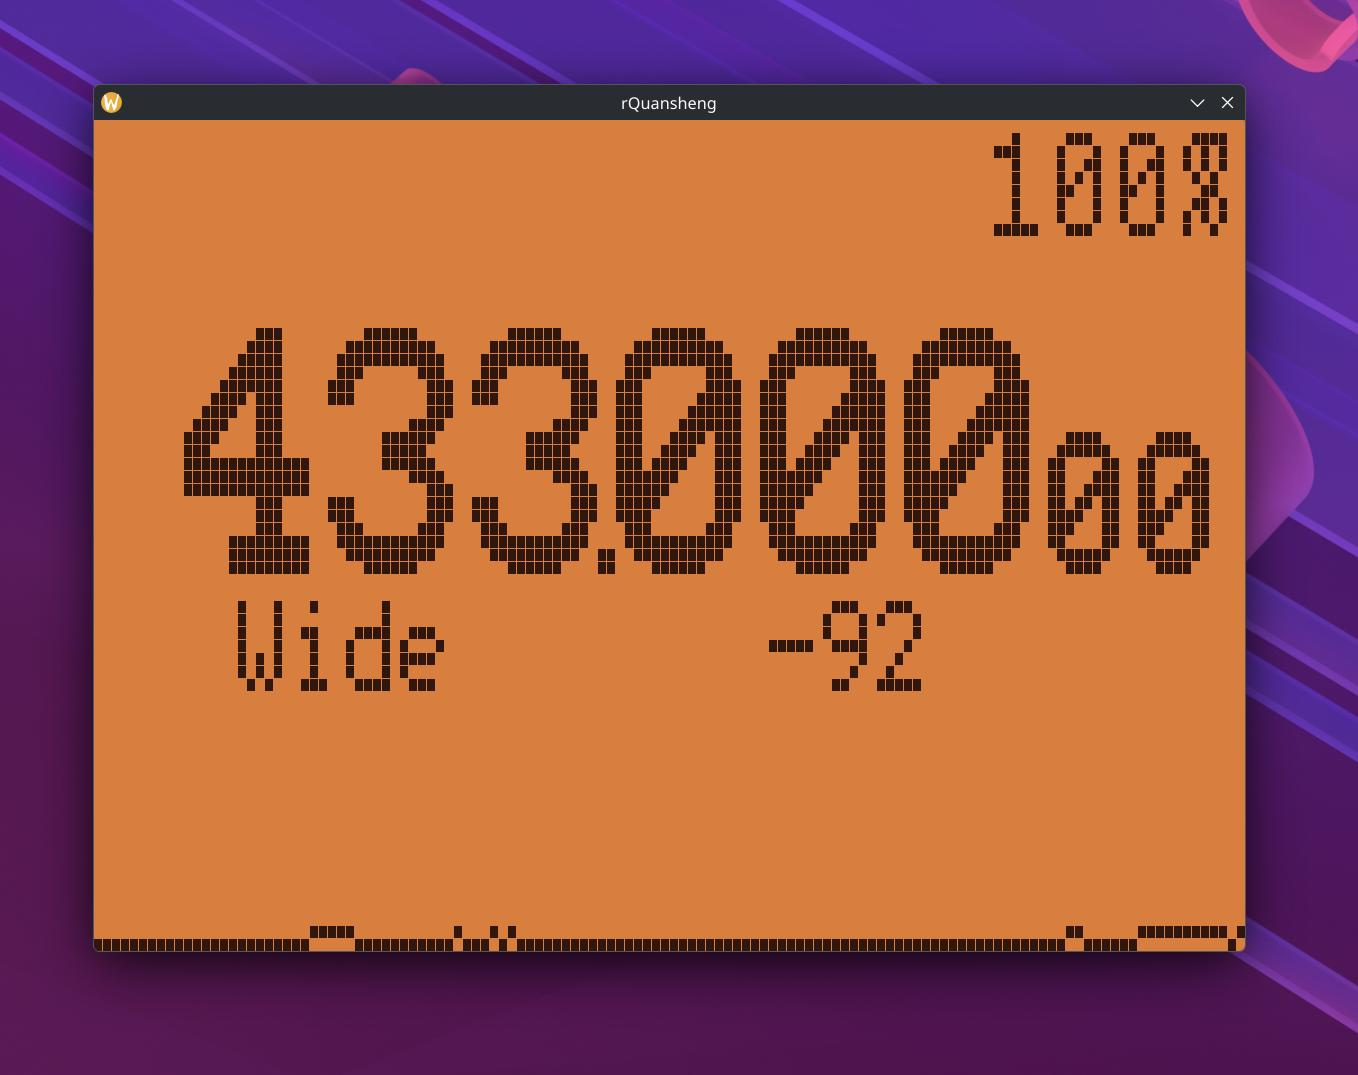
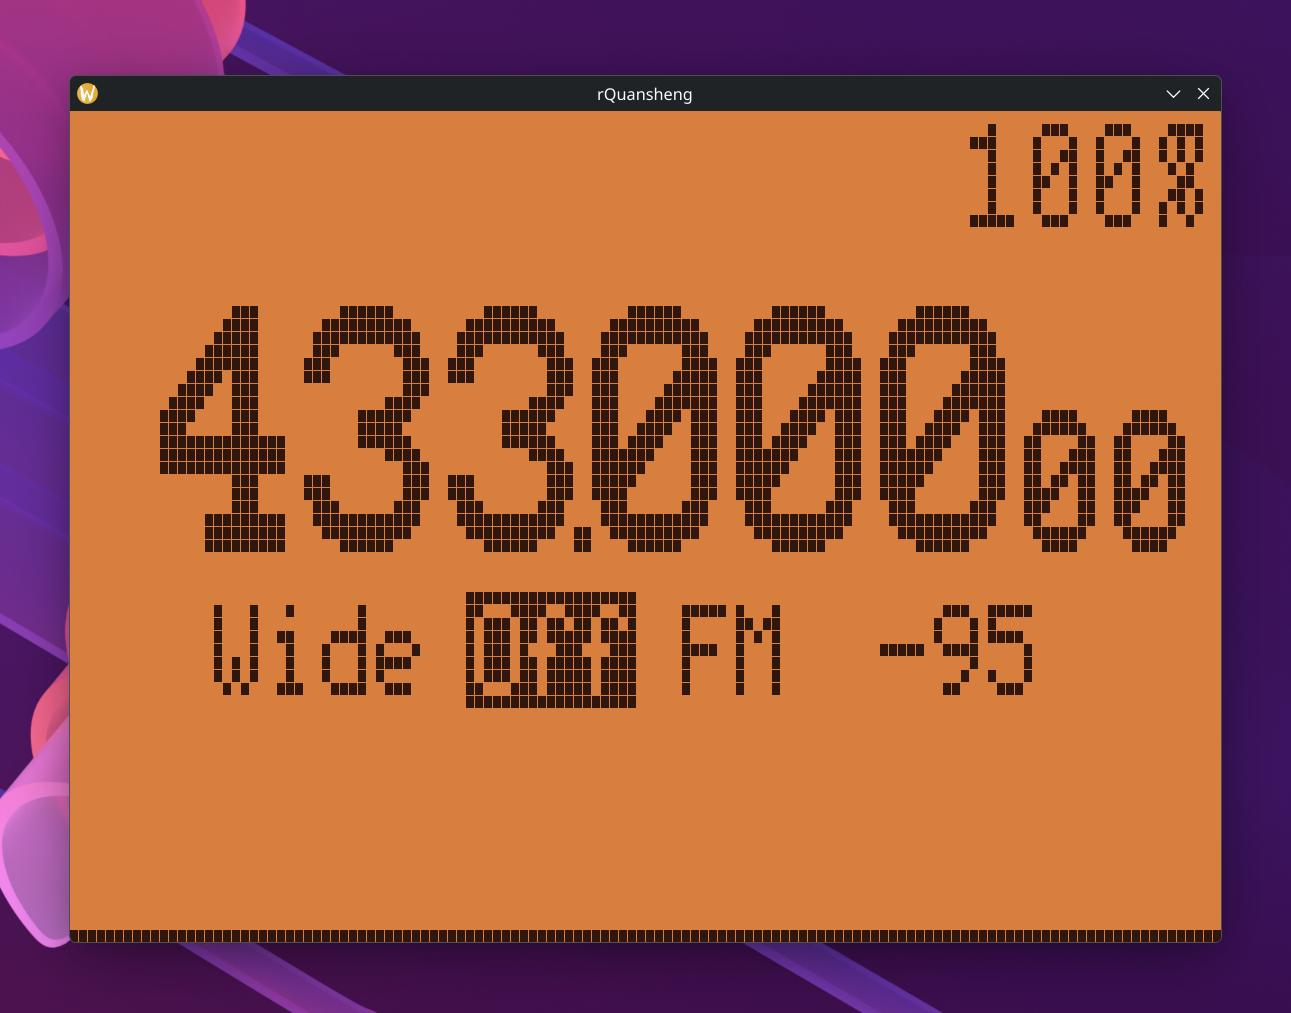
update screenshot

diff --git a/host_sw/src/bin/emulator.rs b/host_sw/src/bin/emulator.rs
@@ -37,7 +37,7 @@ fn main() -> Result<(), core::convert::Infallible> {
     let radio_bus =
         SerialProtocolRadioBus::open("/dev/ttyUSB0", 38400, Duration::from_millis(150)).unwrap();
 
-    let radio_bus = DummyRadioBus;
+    //let radio_bus = DummyRadioBus;
     let mut dummy_delay = host_sw::delay::DummyDelay;
 
     let (tx, rx) = std::sync::mpsc::channel();

diff --git a/README.md b/README.md
@@ -54,8 +54,8 @@ rQuansheng can run on a normal PC, controlling the radio chip on a physical devi
 - [x] support high / medium / low power tx (from eeprom calib. tables)
 - [x] support 10 squelch levels (from eeprom calib. tables)
 - [ ] support for CTCSS / DCS etc etc
-- [ ] support AM / SSB / raw etc reception
-- [ ] AM fix or whatever
+- [x] support AM / SSB / raw etc reception
+- [x] AM fix (not tested)
 
 
 ## In the far future, probably never
